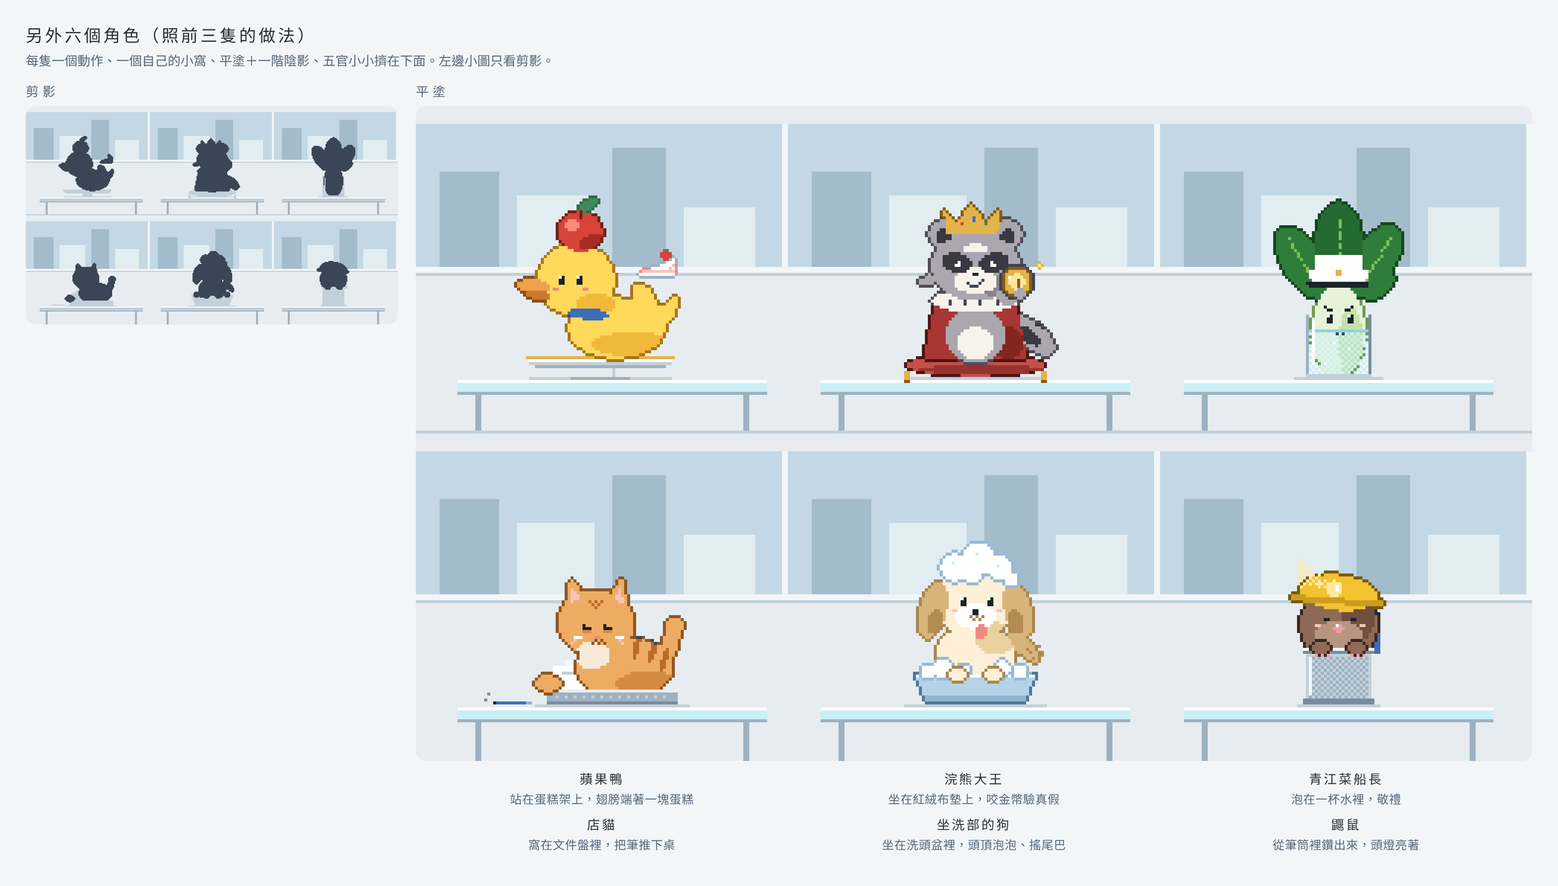
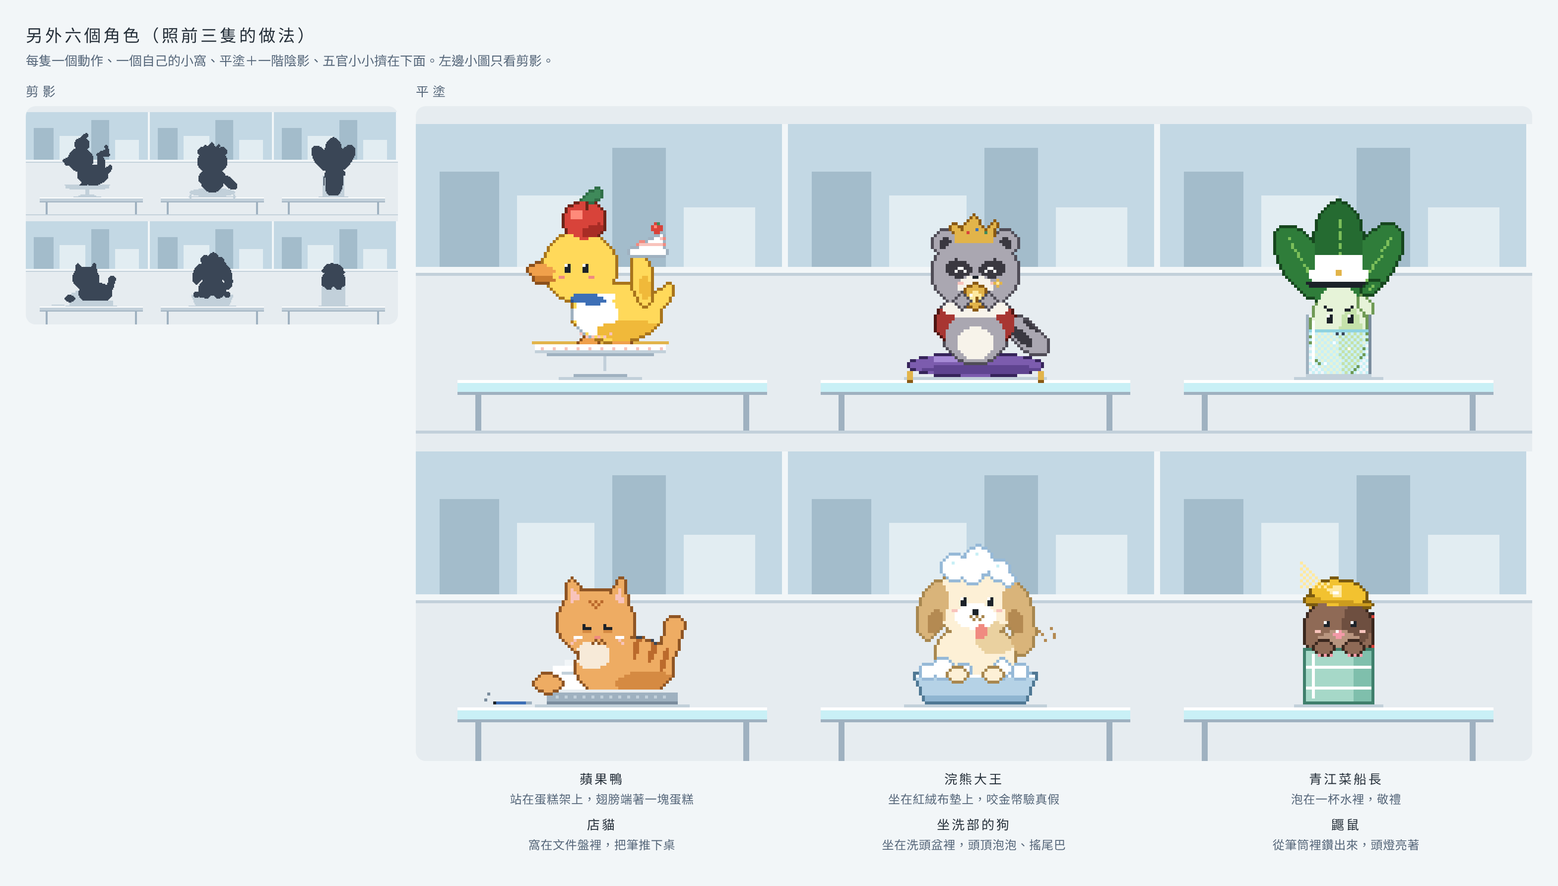
docs: company six characters revised
Claude-Session: https://claude.ai/code/session_01DfELKGAuUeHGLNNJha5AAX

diff --git a/docs/plans/company/cast.html b/docs/plans/company/cast.html
@@ -44,12 +44,13 @@ const C = { ink0: '#1c2229', ink2: '#3a4656', ink3: '#56677a', g1: '#7a8c9d', g2
   // 坐洗部的狗
   cr: '#fdf0d6', cr2: '#ead1a0', cr0: '#a8874f', ear: '#d9b47a', ear2: '#b48a52', bub0: '#96b9d7', tub: '#b5d2e6', tub2: '#8fb5d1', tub0: '#4f7894',
   // 鼴鼠
+  pu: '#7c5cae', pu2: '#5f4490', pu0: '#36245a', puh: '#a68ad6', mt: '#a6d8c8', mt2: '#7fbfac', mt0: '#3f7f6c',
   br: '#8f6a56', br2: '#6e4f40', br0: '#3a271e', brl: '#b8957f', hat: '#f2c230', hat2: '#cc9c1e', hat0: '#7a5a10', mpk: '#f39aa8' };
 // 每個顏色的外框（同色系深一階）
 const OLC = { [C.wh]: C.g2, [C.y1]: C.y0, [C.y2]: C.y0, [C.red]: C.red0, [C.red2]: C.red0, [C.redh]: C.red0, [C.gr1]: C.gr0, [C.b1]: C.b0, [C.o2]: C.o0, [C.o1]: C.o0,
   [C.rg]: C.rg0, [C.rg2]: C.rg0, [C.mask]: C.rg0, [C.fur]: C.rg0, [C.cape]: C.cape0, [C.cape2]: C.cape0, [C.au1]: C.au0, [C.au2]: C.au0,
   [C.lf]: C.lf0, [C.lf2]: C.lf0, [C.st]: C.st0, [C.st2]: C.st0, [C.ct]: C.ct0, [C.ct2]: C.ct0, [C.cw]: C.ct0, [C.cr]: C.cr0, [C.cr2]: C.cr0, [C.ear]: C.cr0, [C.ear2]: C.cr0,
-  [C.br]: C.br0, [C.br2]: C.br0, [C.brl]: C.br0, [C.hat]: C.hat0, [C.hat2]: C.hat0, [C.pk2]: C.pink, [C.mpk]: C.red2 };
+  [C.br]: C.br0, [C.br2]: C.br0, [C.brl]: C.br0, [C.hat]: C.hat0, [C.hat2]: C.hat0, [C.pk2]: C.pink, [C.mpk]: C.red2, [C.pu]: C.pu0, [C.mt]: C.mt0 };
 
 function scene(X, sil) {
   const R = (a, b, w, h, col) => { X.fillStyle = col; X.fillRect(Math.round(a), Math.round(b), Math.round(w), Math.round(h)); };
@@ -88,58 +89,59 @@ function scene(X, sil) {
   R(0, 109, W, 1, C.g3);
 
   // ================= 第一排 =================
-  // ---- 蘋果鴨：甜點店老闆，站在蛋糕架上，翅膀高高端著一塊草莓蛋糕（臉朝左，跟招牌一樣） ----
+  // ---- 蘋果鴨：甜點店老闆，站在高腳蛋糕架上，穿白圍裙、有小腳（不像洗澡的小黃鴨），翅膀托著一盤草莓蛋糕 ----
   { const cx = 62, dy = 92;
-    N(cx - 24, dy - 1, 48, 1, C.g3);
-    N(cx - 5, dy - 5, 10, 4, C.g4); N(cx - 10, dy - 1, 20, 1, C.g2); N(cx + 4, dy - 5, 1, 4, C.g3);                        // 蛋糕架的腳
-    N(cx - 24, dy - 8, 48, 3, C.wh); N(cx - 24, dy - 6, 48, 1, C.g3); N(cx - 25, dy - 8, 50, 1, C.au1); N(cx - 22, dy - 5, 44, 1, C.g2);   // 盤子＋金邊
-    const by = dy - 8, { L, E, PG, at } = mk(cx, by);
-    E(4, -7, 12, 7.5, C.y1); E(15, -10, 4.5, 2.2, C.y1, -.6); E(18, -13, 2, 1.3, C.y1, -1);                  // 圓滾滾的身體、翹尾巴
-    E(-6, -19, 9.5, 9, C.y1);                                                                               // 頭
-    E(-16.5, -17.5, 4, 1.7, C.o2, .08); E(-15.5, -15.3, 3.2, 1.2, C.o1, .08);                               // 上下兩片嘴
-    E(8, -3, 10, 3, C.y2, 0, C.y1); E(-1, -13, 5, 2.5, C.y2, 0, C.y1);                                    // 一階陰影
-    E(-3, -10.5, 5, 1.5, C.b1, .1);                                                                          // 藍緞帶
-    E(11, -14, 2.6, 4.5, C.y1, -.5);                                                                         // 舉起來的翅膀
-    E(-5, -31, 5.5, 5, C.red); E(-7, -32.5, 1.8, 1.4, C.redh, 0, C.red); E(-2, -28.5, 3.5, 1.8, C.red2, -.3, C.red);   // 頭上的蘋果
-    E(-3, -37.5, 2.6, 1.2, C.gr1, -.5);
+    N(cx - 14, dy - 1, 28, 1, C.g3);
+    N(cx - 9, dy - 2, 18, 1, C.g2); N(cx - 7, dy - 3, 14, 1, C.g4); N(cx - 2, dy - 10, 4, 7, C.g4); N(cx + 1, dy - 10, 1, 7, C.g3);   // 高腳蛋糕架的腳
+    N(cx - 23, dy - 13, 46, 1, C.au1); N(cx - 22, dy - 12, 44, 2, C.wh); N(cx - 22, dy - 10, 44, 1, C.g3); N(cx - 18, dy - 9, 36, 1, C.g2);   // 盤子＋金邊
+    if (!sil) for (let i = cx - 20; i < cx + 21; i += 4) px(i, dy - 11, C.pk2);
+    const by = dy - 13, { L, E, PG, at } = mk(cx, by);
+    E(-3, .3, 2.4, 1, C.o2); E(5, .3, 2.4, 1, C.o2);                                                         // 小腳丫
+    E(4, -7, 11, 7, C.y1); E(14, -10, 4, 2, C.y1, -.6); E(16.5, -12.5, 1.8, 1.2, C.y1, -1);                  // 身體、翹尾巴
+    E(-5, -18.5, 9, 8.5, C.y1);                                                                             // 頭
+    E(-14.5, -17.5, 3.2, 1.5, C.o2, .08); E(-13.8, -15.6, 2.6, 1, C.o1, .08);                               // 小小的嘴
+    E(8, -2.5, 9, 2.6, C.y2, 0, C.y1);
+    E(-1, -6.5, 5.5, 5, C.wh, 0, C.y1); E(-1, -11.2, 5, 1, C.wh, 0, C.y1);                                  // 白圍裙
+    E(-3, -10.5, 4.5, 1.3, C.b1, .1);                                                                        // 藍緞帶
+    E(-4, -30, 5, 4.6, C.red); E(-6, -31.5, 1.6, 1.3, C.redh, 0, C.red); E(-1.5, -27.5, 3.2, 1.6, C.red2, -.3, C.red);
+    E(-2, -36, 2.4, 1.1, C.gr1, -.5);
     outline(L);
-    const [ax, ay] = at(-5, -36); F(L, ax, ay, [[0, 0], [0, 1], [0, 2]], C.red0);                           // 蘋果梗
-    const [ex, ey] = at(-8, -20); bean(L, ex - 3, ey); bean(L, ex + 3, ey);                                  // 豆豆眼
+    const [ax, ay] = at(-4, -34.5); F(L, ax, ay, [[0, 0], [0, 1], [0, 2]], C.red0);
+    const [ex, ey] = at(-6.5, -19.5); bean(L, ex - 3, ey); bean(L, ex + 3, ey);
     F(L, ex - 5, ey + 4, [[0, 0], [1, 0]], C.pink); F(L, ex + 5, ey + 4, [[0, 0], [1, 0]], C.pink);
-    blit(L, dy);
-    // 翅膀上端著的蛋糕
-    const Kc = Lay(), [kx, ky] = at(13, -22);
-    lpoly(Kc, [[kx - 6, ky + 3], [kx + 7, ky + 3], [kx + 7, ky - 3]], C.wh); for (let i = kx - 4; i <= kx + 6; i++) lp(Kc, i, ky + 1, C.pk2); lp(Kc, kx + 6, ky - 1, C.pk2); lp(Kc, kx + 5, ky, C.pk2);
-    outline(Kc); lel(Kc, kx + 4, ky - 4, 1.6, 1.6, C.red); lp(Kc, kx + 4, ky - 6, C.gr1); blit(Kc, dy);
+    const [fx, fy] = at(-1, -2.5); F(L, fx - 6, fy, [[0, 0], [2, 1], [4, 1], [6, 1], [8, 1], [10, 0]], C.pk2);   // 圍裙的花邊
+    blit(L, dy - 12);
+    const Wg = Lay(); { const [a, b] = at(10.5, -15.5); lel(Wg, a, b, 2.4 * S, 6.5 * S, C.y1, -.15); lel(Wg, a + 1, b + 3, 1.4 * S, 3 * S, C.y2, -.15, C.y1); outline(Wg); blit(Wg, dy - 12); }   // 舉起來托盤子的翅膀（另一層、整圈描邊才看得出來）
+    // 翅膀上托著的盤子＋蛋糕
+    const Kc = Lay(), [kx, ky] = at(11.8, -22.5);
+    lel(Kc, kx, ky, 6.5, 1.4, C.wh); lpoly(Kc, [[kx - 4, ky - 1], [kx + 5, ky - 1], [kx + 5, ky - 6]], C.wh); for (let i = kx - 3; i <= kx + 4; i++) lp(Kc, i, ky - 3, C.pk2); lp(Kc, kx + 4, ky - 5, C.pk2);
+    outline(Kc); lel(Kc, kx + 3, ky - 8, 1.6, 1.6, C.red); lp(Kc, kx + 3, ky - 10, C.gr1); lp(Kc, kx + 2, ky - 9, C.redh); blit(Kc, dy);
   }
-  // ---- 浣熊大王：坐在紅絨布墊上，咬金幣驗真假，得意的嘴角、歪一邊的皇冠 ----
+  // ---- 浣熊大王：簡單、圓圓的（妹妹：「不要像別款 RPG 跑來的」），坐在紫色絨布墊上，兩手捧金幣咬下去驗真假 ----
   { const cx = 188, dy = 92;
     N(cx - 24, dy - 1, 48, 1, C.g3);
-    el(cx, dy - 5, 24, 4.5, C.cape0); el(cx, dy - 5, 23, 3.6, C.vel); el(cx + 2, dy - 3.5, 21, 1.6, C.vel2); el(cx - 8, dy - 7, 9, .8, C.redh);   // 絨布墊
-    [[-23, -3], [23, -3]].forEach(([a, b]) => { N(cx + a - 1, dy + b, 2, 3, C.au1); N(cx + a - 1, dy + b + 3, 2, 1, C.au0); });   // 金流蘇
+    el(cx, dy - 5, 23, 4.5, C.pu0); el(cx, dy - 5, 22, 3.6, C.pu); el(cx + 2, dy - 3.5, 20, 1.6, C.pu2); el(cx - 8, dy - 7, 8, .8, C.puh);   // 紫色絨布墊
+    [[-22, -3], [22, -3]].forEach(([a, b]) => { N(cx + a - 1, dy + b, 2, 3, C.au1); N(cx + a - 1, dy + b + 3, 2, 1, C.au0); });
     const by = dy - 7, { L, E, PG, at } = mk(cx, by);
-    E(14, -6, 3.2, 7, C.rg, -.9);                                                                            // 條紋尾巴
-    [[16.5, -9.5], [13.2, -5.8], [10, -2.5]].forEach(([a, b]) => E(a, b, 1.6, 3.5, C.mask, -.9, C.rg));
-    PG([[-13, 0], [-10, -15], [10, -15], [13, 0]], C.cape); E(8, -4, 4, 4, C.cape2, 0, C.cape);               // 紅披風
-    E(0, -6, 7.5, 7, C.rg); E(0, -4, 4.5, 4, C.fur, 0, C.rg);                                                // 身體、白肚子
-    E(0, -14.5, 11, 2.8, C.fur);                                                                             // 白毛領
-    E(-8, -31, 3.6, 3.6, C.rg); E(8, -31, 3.6, 3.6, C.rg); E(-8, -30.5, 1.8, 1.8, C.mask, 0, C.rg); E(8, -30.5, 1.8, 1.8, C.mask, 0, C.rg);
-    E(0, -23, 11, 8.5, C.rg); PG([[-11, -22], [-14.5, -19], [-10, -18]], C.rg); PG([[11, -22], [14.5, -19], [10, -18]], C.rg);   // 頭、兩頰毛
-    E(-4.6, -24, 3.8, 2.4, C.mask, .15, C.rg); E(4.6, -24, 3.8, 2.4, C.mask, -.15, C.rg);                   // 黑眼罩
-    E(0, -19.5, 5.5, 3.2, C.fur, 0, C.rg); E(0, -27.5, 3, 1.2, C.fur, 0, C.rg);
-    E(6, -18, 4, 3, C.rg2, 0, C.rg);
-    PG([[-7, -31], [-8, -37], [-4.5, -34], [-1, -39], [2.5, -34], [6, -37.5], [5.5, -31]], C.au1);         // 皇冠：歪一邊
-    E(8, -16, 2.8, 2.6, C.rg);                                                                               // 拿金幣的手
+    E(12.5, -6, 3, 6.5, C.rg, -.9); [[14.5, -9], [11.5, -5.5]].forEach(([a, b]) => E(a, b, 1.5, 3.4, C.mask, -.9, C.rg));   // 條紋尾巴
+    E(0, -9, 10, 6.5, C.cape);                                                                              // 短短的紅披風（只在肩膀後面）
+    E(0, -5.5, 7.5, 6.5, C.rg); E(0, -4, 4.5, 4, C.fur, 0, C.rg);                                           // 圓圓的身體、白肚子
+    E(0, -12.5, 8.5, 2.2, C.fur);                                                                            // 白毛領
+    E(-7.5, -29, 3, 3, C.rg); E(7.5, -29, 3, 3, C.rg); E(-7.5, -28.6, 1.5, 1.5, C.mask, 0, C.rg); E(7.5, -28.6, 1.5, 1.5, C.mask, 0, C.rg);
+    E(0, -21.5, 10.5, 9, C.rg);                                                                              // 圓圓的頭
+    E(-4.3, -22.5, 3.4, 2.3, C.mask, .12, C.rg); E(4.3, -22.5, 3.4, 2.3, C.mask, -.12, C.rg);             // 黑眼罩
+    E(0, -18, 4.5, 2.8, C.fur, 0, C.rg);                                                                     // 白嘴巴
+    PG([[-5, -29], [-6, -34], [-3.5, -32], [-.5, -35.5], [2.5, -32], [5, -34.5], [4.5, -29]], C.au1);     // 小皇冠，歪一邊
     outline(L);
-    [[-7, -2.5], [-3, -3], [1, -3], [5, -2.5]].forEach(([a, b]) => { const [p, q] = at(a, b - 12); F(L, p, q, [[0, 0], [0, 1]], C.ink2); });   // 毛領上的黑點
-    const [cxr, cyr] = at(-1, -35); F(L, cxr - 4, cyr + 1, [[0, 0]], C.red); F(L, cxr, cyr - 1, [[0, 0], [0, 1]], C.b1); F(L, cxr + 4, cyr + 1, [[0, 0]], C.gr1);   // 三顆寶石
-    const [ex, ey] = at(0, -24); F(L, ex - 7, ey, [[0, 0], [1, 0], [1, -1]], C.wh); F(L, ex + 5, ey, [[0, 0], [1, 0], [0, -1]], C.wh);   // 亮晶晶、往金幣瞄
-    F(L, ex - 1, ey + 3, [[0, 0], [1, 0]], C.ink0); F(L, ex - 3, ey + 6, [[0, 0], [1, 1], [2, 1], [3, 1], [4, 0], [5, -1]], C.ink2);      // 鼻子、得意的嘴角
+    const [cxr, cyr] = at(-.3, -32.5); F(L, cxr - 3, cyr + 1, [[0, 0]], C.red); F(L, cxr, cyr, [[0, 0]], C.b1); F(L, cxr + 3, cyr + 1, [[0, 0]], C.gr1);
+    const [ex, ey] = at(0, -23); F(L, ex - 7, ey + 1, [[0, 0], [1, -1], [2, -1], [3, 0]], C.wh); F(L, ex + 3, ey + 1, [[0, 0], [1, -1], [2, -1], [3, 0]], C.wh);   // 瞇成 ^ ^ 的得意眼
+    F(L, ex - 1, ey + 3, [[0, 0], [1, 0]], C.ink0); F(L, ex - 1, ey + 5, [[0, 0], [1, 0]], C.wh);           // 鼻子、兩顆小門牙
+    F(L, ex - 6, ey + 5, [[0, 0], [1, 0]], C.pk2); F(L, ex + 5, ey + 5, [[0, 0], [1, 0]], C.pk2);
     blit(L, dy);
-    const Cn = Lay(), [kx, ky] = at(10.5, -19.5);                                                            // 金幣：咬著驗真假
-    lel(Cn, kx, ky, 4.4, 4.4, C.au1); outline(Cn); lel(Cn, kx, ky, 2.6, 2.6, C.au2, 0, C.au1); lp(Cn, kx, ky - 1, C.au0); lp(Cn, kx, ky, C.au0); lp(Cn, kx, ky + 1, C.au0); lp(Cn, kx - 3, ky - 2, C.wh);
-    lel(Cn, kx + 1, ky + 4, 2.2, 2, C.rg); outline(Cn); blit(Cn, dy);
-    if (!sil) { px(kx + 7, ky - 6, C.au2); px(kx + 6, ky - 6, C.au1); px(kx + 8, ky - 6, C.au1); px(kx + 7, ky - 7, C.au1); px(kx + 7, ky - 5, C.au1); }
+    const Cn = Lay(), [kx, ky] = at(0, -15.2);                                                               // 咬在嘴裡的金幣＋兩隻捧著的手
+    lel(Cn, kx, ky, 3.6, 3.6, C.au1); outline(Cn); lel(Cn, kx, ky, 2, 2, C.au2, 0, C.au1); lp(Cn, kx - 2, ky - 1, C.wh); lp(Cn, kx, ky, C.au0); lp(Cn, kx, ky + 1, C.au0);
+    const Pw = Lay(); lel(Pw, kx - 4.5, ky + 1.5, 2.3, 2, C.rg); lel(Pw, kx + 4.5, ky + 1.5, 2.3, 2, C.rg); outline(Pw); blit(Cn, dy); blit(Pw, dy);
+    if (!sil) { const sx = kx + 7, sy = ky - 5; px(sx, sy, C.au2); px(sx - 1, sy, C.au1); px(sx + 1, sy, C.au1); px(sx, sy - 1, C.au1); px(sx, sy + 1, C.au1); }
   }
   // ---- 青江菜船長：泡在一杯水裡，一片葉子舉到帽簷敬禮，生氣的粗眉 ----
   { const cx = 310, dy = 92;
@@ -150,7 +152,6 @@ function scene(X, sil) {
     E(0, -10, 6.5, 12, C.st); E(3, -7, 3, 9, C.st2, 0, C.st);                                                // 白綠菜梗（臉在這裡）
     E(0, -24, 7.5, 2.6, C.wh); PG([[-6.5, -24], [-5.5, -29], [5.5, -29], [6.5, -24]], C.wh);             // 船長帽：白頂
     PG([[-8.5, -22.3], [8.5, -22.3], [7, -20.5], [-7, -20.5]], C.ink0);                                     // 黑簷
-    E(10, -21, 2.2, 4.5, C.lf, .9);                                                                          // 敬禮的葉子手
     outline(L);
     [[-9, -27, -.55], [9, -27.5, .55], [0, -31, 0]].forEach(([a, b, th]) => { for (let k = -6; k <= 7; k++) { const p = Math.round(cx + (a + Math.sin(th) * k) * S), q = Math.round(by + (b - Math.cos(th) * k) * S); if (L[q * W + p] === C.lf || L[q * W + p] === C.lf2) F(L, p, q, [[0, 0]], C.vein); } });   // 葉脈
     const [hx, hy] = at(0, -25.5); F(L, hx - 1, hy, [[0, 0], [1, 0], [0, 1], [1, 1]], C.au1);              // 金徽章
@@ -158,6 +159,7 @@ function scene(X, sil) {
     F(L, ex - 5, ey - 3, [[0, 0], [1, 1], [2, 1]], C.ink0); F(L, ex + 2, ey - 2, [[0, 0], [1, 0], [2, -1]], C.ink0);   // 生氣的粗眉
     F(L, ex - 1, ey + 6, [[0, 0], [1, 0], [2, 0]], C.ink2);
     blit(L, dy);
+    const Sa = Lay(); { const [a1, b1] = at(6.8, -16.5), [a2, b2] = at(8.5, -20.8); lel(Sa, a1, b1, 1.6, 3.4, C.st, -.45); lel(Sa, a2, b2, 3, 1.6, C.lf, -.55); outline(Sa); lp(Sa, a2 - 1, b2, C.vein); lp(Sa, a2, b2 - 1, C.vein); blit(Sa, dy); }   // 菜梗伸出來的小手，葉子尖碰帽簷敬禮
     // 杯子：水用棋盤格（看得到泡在裡面的菜梗）、水面、杯緣、左邊一道反光
     if (!sil) { for (let j = dy - 16; j < dy - 1; j++) for (let i = cx - 10; i < cx + 10; i++) if ((i + j) % 2 === 0) px(i, j, C.cy2); R(cx - 10, dy - 17, 20, 1, C.cy); [[-5, -6], [3, -11], [-2, -13]].forEach(([a, b]) => px(cx + a, dy + b, C.wh)); }
     N(cx - 11, dy - 22, 1, 21, C.g2); N(cx + 10, dy - 22, 1, 21, C.g1); N(cx - 11, dy - 2, 22, 2, C.g3); N(cx - 9, dy - 20, 1, 15, C.wh);
@@ -196,7 +198,7 @@ function scene(X, sil) {
     N(cx - 24, dy - 1, 48, 1, C.g3);
     el(cx, dy - 11, 21, 3, C.tub0); el(cx, dy - 11, 20, 2.2, C.tub2);                                        // 盆子後緣
     const by = dy - 7, { L, E, PG, at } = mk(cx, by);
-    E(12, -10, 2, 5, C.ear, -.8);                                                                            // 搖著的尾巴
+    E(11.5, -11, 2.6, 2.6, C.ear); E(13.2, -13.6, 1.8, 1.8, C.ear);                                          // 一小團捲捲的尾巴
     E(0, -8, 10, 7, C.cr); E(0, -21, 10, 8.5, C.cr);                                                         // 身體、頭
     E(-10.5, -19, 3.4, 7, C.ear, .25); E(10.5, -19, 3.4, 7, C.ear, -.25);                                   // 垂耳
     E(-10, -16, 2, 3, C.ear2, .25, C.ear); E(10, -16, 2, 3, C.ear2, -.25, C.ear);
@@ -207,36 +209,37 @@ function scene(X, sil) {
     F(L, ex - 1, ey + 4, [[0, 0], [1, 0], [0, 1], [1, 1]], C.ink0); F(L, ex - 2, ey + 6, [[0, 0], [1, 1], [2, 0], [3, 1], [4, 0]], C.cr0);
     F(L, ex - 8, ey + 4, [[0, 0], [1, 0]], C.pk2); F(L, ex + 7, ey + 4, [[0, 0], [1, 0]], C.pk2);
     blit(L, dy - 9);
-    const Fo = Lay(); [[-5, -30, 3.4], [1, -32, 4], [6, -29.5, 3], [-1, -28, 2.6], [9, -27, 1.8]].forEach(([a, b, r]) => { const [p, q] = at(a, b); lel(Fo, p, q, r * S, r * S, C.wh); });   // 頭上的洗頭泡泡
+    const Fo = Lay(); [[-5, -29.5, 3], [1, -31, 3.4], [6, -29, 2.6], [-1, -28, 2.2], [8.5, -27, 1.5]].forEach(([a, b, r]) => { const [p, q] = at(a, b); lel(Fo, p, q, r * S, r * S, C.wh); });   // 頭上的洗頭泡泡
     outline(Fo, C.bub0); [[-6, -31], [0, -33.5], [5, -30.5]].forEach(([a, b]) => { const [p, q] = at(a, b); lp(Fo, p, q, C.cy2); }); blit(Fo, dy);
     // 盆子前面＋盆緣的泡泡
     for (let j = 0; j < 10; j++) { const ins = Math.round(j * .4); N(cx - 21 + ins, dy - 11 + j, 42 - ins * 2, 1, j === 0 ? C.wh : j > 6 ? C.tub2 : C.tub); N(cx - 21 + ins, dy - 11 + j, 1, 1, C.tub0); N(cx + 20 - ins, dy - 11 + j, 1, 1, C.tub0); }
     N(cx - 17, dy - 2, 34, 1, C.tub0);
     const Bb = Lay(); [[-16, -12, 2.4], [-11, -13, 3], [9, -13, 2.8], [15, -12, 2.2], [-4, -12.5, 2]].forEach(([a, b, r]) => lel(Bb, cx + a, dy + b, r, r, C.wh)); outline(Bb, C.bub0); blit(Bb, dy);
     const Pw = Lay(); lel(Pw, cx - 6, dy - 11, 2.8, 2, C.cr); lel(Pw, cx + 6, dy - 11, 2.8, 2, C.cr); outline(Pw); blit(Pw, dy);   // 兩隻手搭在盆緣
-    if (!sil) { [[17, -20], [18, -19], [19, -17]].forEach(([a, b]) => px(cx + a, dy + b, C.ear2)); [[21, -21], [22, -19], [22, -18]].forEach(([a, b]) => px(cx + a, dy + b, C.ear2)); }   // 搖尾巴的線
+    if (!sil) { [[21, -26], [22, -25], [23, -23]].forEach(([a, b]) => px(cx + a, dy + b, C.ear2)); [[25, -27], [26, -25], [26, -24]].forEach(([a, b]) => px(cx + a, dy + b, C.ear2)); }   // 搖尾巴的線
   }
-  // ---- 鼴鼠：從筆筒裡鑽出來，歪歪的工地帽、頭燈亮著，粉紅大鼻子、爪子抓著筒緣 ----
+  // ---- 鼴鼠：從薄荷色筆筒裡鑽出來（插滿筆，不像垃圾桶），小一號的工地帽、頭燈亮著，豆豆眼、粉紅大鼻子 ----
   { const cx = 310, dy = 202;
-    N(cx - 14, dy - 1, 28, 1, C.g3);
-    N(cx + 9, dy - 36, 2, 18, C.au1); N(cx + 9, dy - 38, 2, 2, C.pk2); N(cx + 9, dy - 36, 2, 1, C.g2); N(cx + 12, dy - 31, 2, 13, C.b1); N(cx + 12, dy - 32, 2, 1, C.ink0);   // 筆筒裡的鉛筆、原子筆
-    const by = dy - 25, { L, E, PG, at } = mk(cx, by);   // 往上冒多一點，臉才不會被筒緣擋住
-    E(0, -2, 9.5, 9.5, C.br); E(0, 1, 6, 4, C.brl, 0, C.br); E(5, -4, 4, 6, C.br2, 0, C.br);                // 圓滾滾的身體（下半在筆筒裡）
-    E(0, -10, 9.5, 4.4, C.hat, .12); PG([[-11.5, -9.5], [11, -7.8], [11, -6.3], [-11.5, -8]], C.hat2);     // 工地帽、帽簷（歪歪的）
-    E(-1, -11, 2, 2, C.au2);                                                                                 // 頭燈
+    N(cx - 15, dy - 1, 30, 1, C.g3);
+    N(cx - 10, dy - 36, 2, 18, C.au1); N(cx - 10, dy - 38, 2, 2, C.pk2); N(cx - 10, dy - 36, 2, 1, C.g2);   // 鉛筆
+    N(cx + 7, dy - 34, 2, 16, C.b1); N(cx + 7, dy - 35, 2, 1, C.ink0); N(cx + 10, dy - 31, 2, 13, C.red); N(cx + 10, dy - 32, 2, 1, C.ink0);   // 藍筆、紅筆
+    N(cx - 6, dy - 30, 3, 12, C.au2); for (let j = dy - 29; j < dy - 19; j += 2) N(cx - 6, j, 1, 1, C.au0);   // 尺
+    const by = dy - 24, { L, E, PG, at } = mk(cx, by);
+    E(0, -1, 8.5, 8.5, C.br); E(0, 2, 5.5, 3.5, C.brl, 0, C.br); E(4.5, -3, 3.5, 5.5, C.br2, 0, C.br);
+    E(0, -10.5, 6.6, 3.2, C.hat, .1); PG([[-8.5, -9.6], [8.5, -8.1], [8.5, -7], [-8.5, -8.5]], C.hat2);   // 小一號的工地帽
+    E(-.5, -11, 1.6, 1.6, C.au2);
     outline(L);
-    const [lx, ly] = at(-1, -11); F(L, lx, ly, [[0, 0], [-1, 0], [0, -1]], C.wh);
-    const [hx, hy] = at(-5, -12.5); F(L, hx, hy, [[0, 0], [1, 0], [2, -1]], C.au2);                         // 帽子的亮
-    const [ex, ey] = at(0, -4); F(L, ex - 5, ey, [[0, 0], [1, 0]], C.ink0); F(L, ex + 4, ey, [[0, 0], [1, 0]], C.ink0);   // 小小的瞇瞇眼
-    F(L, ex - 2, ey + 2, [[1, 0], [2, 0], [0, 1], [1, 1], [2, 1], [3, 1], [1, 2], [2, 2]], C.mpk); F(L, ex - 1, ey + 2, [[0, 0]], C.wh);   // 粉紅大鼻子
-    F(L, ex - 8, ey + 2, [[0, 0], [1, 0]], C.pk2); F(L, ex + 7, ey + 2, [[0, 0], [1, 0]], C.pk2);
+    const [lx, ly] = at(-.5, -11); F(L, lx, ly, [[0, 0], [-1, 0]], C.wh);
+    const [ex, ey] = at(0, -4); bean(L, ex - 5, ey, 2); bean(L, ex + 4, ey, 2);                              // 露出來的豆豆眼
+    F(L, ex - 2, ey + 3, [[1, 0], [2, 0], [0, 1], [1, 1], [2, 1], [3, 1], [1, 2], [2, 2]], C.mpk); F(L, ex - 1, ey + 3, [[0, 0]], C.wh);
+    F(L, ex - 8, ey + 3, [[0, 0], [1, 0]], C.pk2); F(L, ex + 7, ey + 3, [[0, 0], [1, 0]], C.pk2);
     blit(L, dy - 19);
-    if (!sil) { for (let k = 1; k < 14; k++) for (let w = -Math.floor(k / 3); w <= Math.floor(k / 3); w++) { const p = lx - k, q = ly - Math.round(k * .45) + w; if ((p + q) % 2 === 0) px(p, q, C.au2); } }   // 頭燈的光
-    // 筆筒：鐵網（棋盤格）＋上下兩圈
-    N(cx - 11, dy - 19, 22, 18, C.g3); if (!sil) for (let j = dy - 17; j < dy - 3; j++) for (let i = cx - 10; i < cx + 10; i++) if ((i + j) % 2 === 0) px(i, j, C.g2);
-    N(cx - 12, dy - 20, 24, 2, C.g1); N(cx - 12, dy - 20, 24, 1, C.g5); N(cx - 12, dy - 3, 24, 2, C.g1); N(cx - 10, dy - 17, 1, 13, C.g5);
-    const Cl = Lay(); [[-6], [6]].forEach(([a]) => lel(Cl, cx + a, dy - 20, 3, 2, C.br)); outline(Cl);       // 抓著筒緣的手
-    [[-6], [6]].forEach(([a]) => { [-2, 0, 2].forEach(d => lp(Cl, cx + a + d, dy - 18, C.mpk)); }); blit(Cl, dy);
+    if (!sil) { for (let k = 2; k < 13; k++) for (let w = -Math.floor(k / 3); w <= Math.floor(k / 3); w++) { const p = lx - k, q = ly - Math.round(k * .5) + w; if ((p + q) % 2 === 0) px(p, q, C.au2); } }
+    // 薄荷色陶瓷筆筒、兩條白線
+    N(cx - 11, dy - 19, 22, 18, C.mt); N(cx + 5, dy - 19, 6, 18, C.mt2); N(cx - 12, dy - 20, 24, 1, C.mt0); N(cx - 12, dy - 19, 1, 18, C.mt0); N(cx + 11, dy - 19, 1, 18, C.mt0); N(cx - 11, dy - 2, 22, 1, C.mt0);
+    N(cx - 11, dy - 14, 22, 1, C.wh); N(cx - 11, dy - 7, 22, 1, C.wh); N(cx - 9, dy - 18, 1, 15, C.wh);
+    const Cl = Lay(); [[-5], [5]].forEach(([a]) => lel(Cl, cx + a, dy - 20, 3, 2, C.br)); outline(Cl);
+    [[-5], [5]].forEach(([a]) => { [-2, 0, 2].forEach(d => lp(Cl, cx + a + d, dy - 18, C.mpk)); }); blit(Cl, dy);
   }
 }
 scene(document.getElementById('a').getContext('2d'), true);

diff --git a/docs/plans/company/README.md b/docs/plans/company/README.md
@@ -48,3 +48,4 @@
 ## 審稿意見
 2026-11-24 九位 AI 審稿員的意見整理在 `review.md`（還沒照著改，等使用者挑）。
 - **另外六個角色草稿** `cast.html`／`cast.png`（左剪影、右平塗），照前三隻的做法：每隻一個動作＋自己的小窩＋平塗一階陰影＋五官小。蘋果鴨站在蛋糕架上、翅膀端草莓蛋糕（臉朝左跟招牌一樣）；浣熊大王坐紅絨布墊（金流蘇）、咬金幣驗真假、皇冠歪一邊、條紋尾巴；青江菜船長泡在一杯水裡（水用棋盤格，看得到泡著的菜梗）、葉子手敬禮、粗眉；店貓窩在文件盤裡、愛睏半月眼＋睫毛、M 字紋、一隻手把筆推下桌；坐洗部的狗坐洗頭盆、頭頂泡泡、舌頭、搖尾巴；鼴鼠從筆筒鑽出來、歪工地帽、頭燈的光、粉紅大鼻子、粉紅爪子抓筒緣。顏色照 `assets/avatar.js`。
+  - 妹妹第一輪：店貓、狗可以收藏；狗剪影像花椰菜、鼴鼠像香菇；蘋果鴨像洗澡小黃鴨、蛋糕浮著、蛋糕架像磅秤；浣熊大王披風跟紅墊黏成紅裙、沒在咬金幣、細節太滿像別款 RPG；船長看不出敬禮；鼴鼠帽子蓋臉、網狀筆筒像垃圾桶。改：蘋果鴨加白圍裙（花邊）和小腳丫、高腳蛋糕架、翅膀另一層整圈描邊托著盤子；浣熊大王重畫成圓頭圓身、少灰階、短披風、紫色絨布墊、兩手捧金幣咬在嘴裡露兩顆門牙、^ ^ 得意眼；船長菜梗伸出小手、葉子尖碰帽簷；狗尾巴改一小團捲毛、泡泡小一點；鼴鼠帽子小一號露出豆豆眼、薄荷色陶瓷筆筒插鉛筆／藍紅筆／尺。

diff --git a/changelog/2026-11.md b/changelog/2026-11.md
@@ -1310,3 +1310,8 @@
 ## 2026-11-24 21:20（台灣）　開公司：另外六個角色的草稿
 - 照前三隻的做法畫了另外六隻，每隻一個動作、一個自己的小窩：蘋果鴨站在蛋糕架上端蛋糕、浣熊大王坐紅絨布墊咬金幣、青江菜船長泡在一杯水裡敬禮、店貓窩在文件盤裡把筆推下桌、坐洗部的狗坐在洗頭盆裡頂泡泡、鼴鼠從筆筒鑽出來戴頭燈。
 - 草稿在 `docs/plans/company/cast.png`（左剪影、右平塗），等妹妹看。只是企劃，網站沒有變。
+
+## 2026-11-24 21:40（台灣）　開公司：六個角色照妹妹的意見修
+- 蘋果鴨穿上白圍裙、長出小腳丫，翅膀真的托著一盤蛋糕，站在高腳蛋糕架上（不再像洗澡的小黃鴨）。
+- 浣熊大王重畫得簡單圓圓的，跟茱莉鴨他們同一套；坐紫色絨布墊，兩手捧著金幣咬，露兩顆小門牙。
+- 青江菜船長伸出小手敬禮；狗的尾巴變一小團捲毛；鼴鼠帽子小一號露出豆豆眼，筆筒換成插滿筆的薄荷色杯子。只是企劃，網站沒有變。
